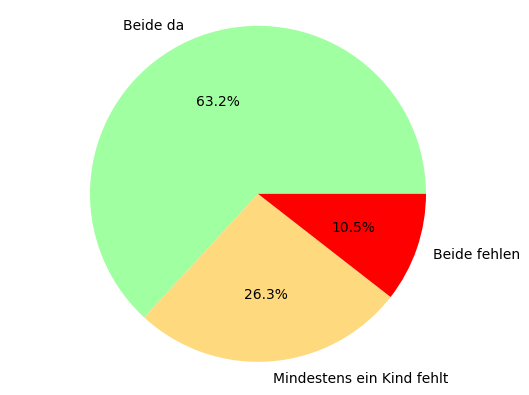
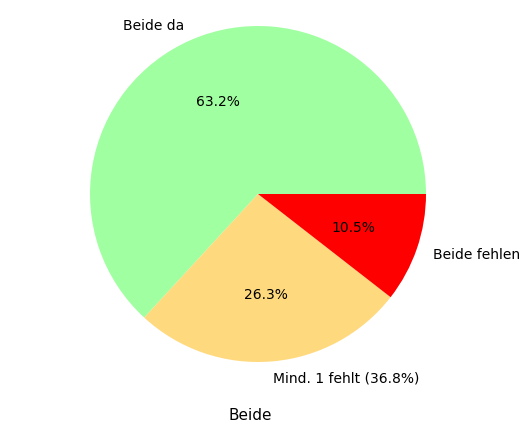
Enhance create_pie_chart function with optional parameters for subtitle and return handles; update ExportWorker to utilize consistent colors and handle new pie chart features in exports; modify tests to accommodate changes in create_pie_chart

diff --git a/src/kidscompass/ui.py b/src/kidscompass/ui.py
@@ -43,6 +43,9 @@ COLOR_PLANNED = '#A0C4FF'
 COLOR_BOTH_ABSENT = '#FFADAD'
 COLOR_A_ABSENT = '#FFD97D'
 COLOR_B_ABSENT = '#A0FFA0'
+COLOR_BOTH_PRESENT = COLOR_B_ABSENT  # Für Konsistenz, beide da = grün
+COLOR_AT_LEAST_ONE_ABSENT = COLOR_A_ABSENT  # Mindestens ein Kind fehlt = gelb
+COLOR_BOTH_MISSING = '#FF0000'  # Beide fehlen = rot
 
 
 def qdate_to_date(qdate):
@@ -366,14 +369,26 @@ class ExportWorker(QObject):
                     self.error.emit(f"Fehler: Bilddatei '{f}' nicht gefunden. Bitte zuerst Statistik berechnen.")
                     return
             try:
-                create_pie_chart([stats['total']-stats['missed_a'],stats['missed_a']],['Anwesend','Fehlend'],png_a)
-                create_pie_chart([stats['total']-stats['missed_b'],stats['missed_b']],['Anwesend','Fehlend'],png_b)
-                # Neues 3-Felder-Diagramm mit roter Farbe für 'Beide fehlen'
-                create_pie_chart(
-                    [stats['both_present'], stats['total'] - stats['both_present'] - stats['both_missing'], stats['both_missing']],
-                    ['Beide da', 'Mindestens ein Kind fehlt', 'Beide fehlen'],
+                # Farben für alle Diagramme konsistent verwenden
+                colors = [COLOR_B_ABSENT, COLOR_A_ABSENT]  # grün, gelb
+                create_pie_chart([stats['total']-stats['missed_a'],stats['missed_a']],['Anwesend','Fehlend'],png_a, colors=colors)
+                create_pie_chart([stats['total']-stats['missed_b'],stats['missed_b']],['Anwesend','Fehlend'],png_b, colors=colors)
+                # Werte für das "both"-Diagramm
+                beide_da = stats['both_present']
+                mindestens_ein_kind_fehlt = stats['total'] - stats['both_present'] - stats['both_missing']
+                beide_fehlen = stats['both_missing']
+                # Prozentwert für "mindestens 1 Kind fehlt oder beide fehlen"
+                mindestens_einer_oder_beide = mindestens_ein_kind_fehlt + beide_fehlen
+                pct_mindestens_einer_oder_beide = round(mindestens_einer_oder_beide / stats['total'] * 100, 1) if stats['total'] else 0.0
+                # Farben: grün, gelb, rot
+                colors_both = [COLOR_B_ABSENT, COLOR_A_ABSENT, COLOR_BOTH_MISSING]
+                wedges, texts, autotexts = create_pie_chart(
+                    [beide_da, mindestens_ein_kind_fehlt, beide_fehlen],
+                    ['Beide da', f'Mind. 1 fehlt ({pct_mindestens_einer_oder_beide}%)', 'Beide fehlen'],
                     png_both,
-                    colors=['#A0FFA0', '#FFD97D', '#FF0000']
+                    colors=colors_both,
+                    return_handles=True,
+                    subtitle="Beide"
                 )
             except Exception as e:
                 logging.error(f"Fehler bei create_pie_chart: {e}")
@@ -429,7 +444,7 @@ class ExportWorker(QObject):
             c.setFont('Helvetica-Bold', 12)
             c.drawCentredString(x_left + size / 2, y_top + 15, 'Kind A')
             c.drawCentredString(x_right + size / 2, y_top + 15, 'Kind B')
-            c.drawCentredString(x_center, y_bottom + 15, 'Beide')
+            # c.drawCentredString(x_center, y_bottom + 15, 'Beide')  # Entfernt, da Beschriftung nun im Diagramm
             # Zeichne zwei Diagramme oben
             c.drawImage(png_a, x_left, y_top - size, width=size, height=size)
             c.drawImage(png_b, x_right, y_top - size, width=size, height=size)
@@ -706,10 +721,14 @@ class MainWindow(QMainWindow):
         # Stoppe Threads sauber vor dem Schließen
         for thread_attr in ['export_thread', 'backup_thread', 'restore_thread', 'worker_thread']:
             thread = getattr(self, thread_attr, None)
-            if thread and thread.isRunning():
-                thread.quit()
-                thread.wait()
-
+            if thread is not None:
+                try:
+                    if thread.isRunning():
+                        thread.quit()
+                        thread.wait()
+                except RuntimeError:
+                    pass  # Thread-Objekt wurde bereits gelöscht
+                setattr(self, thread_attr, None)
         # Schließe die Datenbankverbindung, falls vorhanden
         if hasattr(self, 'db') and self.db:
             self.db.close()

diff --git a/src/kidscompass/charts.py b/src/kidscompass/charts.py
@@ -2,13 +2,15 @@
 
 import matplotlib.pyplot as plt
 
-def create_pie_chart(values: list[int], labels: list[str], filename: str, colors: list[str] = None):
+def create_pie_chart(values: list[int], labels: list[str], filename: str, colors: list[str] = None, return_handles: bool = False, subtitle: str = None):
     """
     Erstellt ein Tortendiagramm und speichert es als PNG.
     :param values: Liste der Werte (z.B. [Anwesend, Fehlend]).
     :param labels: Zugehörige Labels (z.B. ["Anwesend","Fehlend"]).
     :param filename: Pfad zur Ausgabedatei, z.B. "child_a.png".
     :param colors: (Optional) Liste von Farben für die Segmente.
+    :param return_handles: Wenn True, gibt (wedges, texts, autotexts) zurück (für weitere Anpassungen).
+    :param subtitle: (Optional) Text, der unter das Diagramm geschrieben wird.
     """
     total = sum(values)
     # Wenn keine Daten da sind, lege ein kleines Platzhalter‐Bild an
@@ -16,16 +18,25 @@ def create_pie_chart(values: list[int], labels: list[str], filename: str, colors
         fig, ax = plt.subplots()
         ax.text(0.5, 0.5, "Keine Daten", ha="center", va="center", fontsize=14)
         ax.axis("off")
+        if subtitle:
+            fig.text(0.5, 0.02, subtitle, ha="center", va="bottom", fontsize=11)
         fig.savefig(filename, bbox_inches="tight")
         plt.close(fig)
+        if return_handles:
+            return [0], [0], [0]
         return
 
     # Ansonsten ganz normal zeichnen
     fig, ax = plt.subplots()
     if colors is not None:
-        ax.pie(values, labels=labels, autopct="%1.1f%%", colors=colors)
+        wedges, texts, autotexts = ax.pie(values, labels=labels, autopct="%1.1f%%", colors=colors)
     else:
-        ax.pie(values, labels=labels, autopct="%1.1f%%")
+        wedges, texts, autotexts = ax.pie(values, labels=labels, autopct="%1.1f%%")
     ax.axis("equal")           # Kreis rund zeichnen
+    if subtitle:
+        fig.text(0.5, 0.02, subtitle, ha="center", va="bottom", fontsize=11)
     fig.savefig(filename, bbox_inches="tight")
+    if return_handles:
+        plt.close(fig)
+        return wedges, texts, autotexts
     plt.close(fig)

diff --git a/tests/test_workers.py b/tests/test_workers.py
@@ -141,7 +141,7 @@ def test_export_worker_success(qapp):
     parent.visit_status = {planned_date: MagicMock(present_child_a=False, present_child_b=False)}
     # Patch generate_standard_days and apply_overrides to return our planned_date
     with patch('os.path.exists', return_value=True), \
-         patch('kidscompass.ui.create_pie_chart') as mock_chart, \
+         patch('kidscompass.ui.create_pie_chart', return_value=([], [], [])) as mock_chart, \
          patch('reportlab.pdfgen.canvas.Canvas') as mock_canvas, \
          patch('kidscompass.ui.generate_standard_days', return_value=[planned_date]), \
          patch('kidscompass.ui.apply_overrides', return_value=[planned_date]), \
